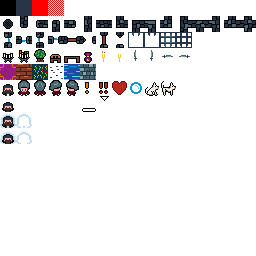
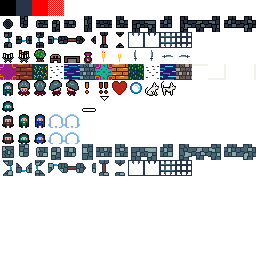
Tileset updates + pool ledge logic

diff --git a/src/tilesets.ts b/src/tilesets.ts
@@ -27,6 +27,7 @@ export type TileSet = {
     guardStateTiles: Array<TileInfo>;
     npcTiles: Array<TileInfo>;
     playerTiles: Array<TileInfo>;
+    ledgeTiles: Array<TileInfo>;
     unlitTile: TileInfo;
     flattenTexture: boolean;
 }
@@ -159,6 +160,12 @@ const sinCityTileSet:TileSet = {
         {textureIndex: r([4,0]), }, //Relaxed
         {textureIndex: r([5,5]), }, //Alerted
         {textureIndex: r([6,5]), }, //Chasing
+    ],
+    ledgeTiles: [
+        {textureIndex: r([12,4]), color: 0xFF736847, unlitColor: 0xFF483428},
+        {textureIndex: r([13,4]), color: 0xFF736847, unlitColor: 0xFF483428},
+        {textureIndex: r([14,4]), color: 0xFF736847, unlitColor: 0xFF483428},
+        {textureIndex: r([15,4]), color: 0xFF736847, unlitColor: 0xFF483428},
     ]
 }
 
@@ -172,50 +179,50 @@ const tileSet31Color:TileSet = {
     flattenTexture: true,
     unlitTile: {textureIndex: r([0, 0])}, //color:colorPreset.lightBlue
     terrainTiles: [ 
-        {textureIndex: r([5,  4]),  color:colorPreset.white, unlitColor:0xffa07070}, // TerrainType.GroundNormal,
-        {textureIndex: r([2,  4]),  color:colorPreset.white, unlitColor:0xffa07070}, // TerrainType.GroundGrass,
-        {textureIndex: r([4,  4]),  color:colorPreset.white, unlitColor:0xffa07070}, // TerrainType.GroundWater,
+        {textureIndex: r([11,  4]),  color:colorPreset.white, unlitColor:0xffa07070}, // TerrainType.GroundNormal,
+        {textureIndex: r([8,  4]),  color:colorPreset.white, unlitColor:0xffa07070}, // TerrainType.GroundGrass,
+        {textureIndex: r([10,  4]),  color:colorPreset.white, unlitColor:0xffa07070}, // TerrainType.GroundWater,
         {textureIndex: r([0,  4]),  color:colorPreset.white, unlitColor:0xffa07070}, // TerrainType.GroundMarble,
-        {textureIndex: r([1,  4]),  color:colorPreset.white, unlitColor:0xffa07070}, // TerrainType.GroundWood,
-        {textureIndex: r([1,  4]),  color:colorPreset.white, unlitColor:0xffa07070}, // TerrainType.GroundWoodCreaky,
-        {textureIndex: r([0,  1]),  color:colorPreset.white, unlitColor:0xffa07070}, // TerrainType.Wall0000,
-        {textureIndex: r([2,  1]),  color:colorPreset.white, unlitColor:0xffa07070}, // TerrainType.Wall0001,
-        {textureIndex: r([4,  1]),  color:colorPreset.white, unlitColor:0xffa07070}, // TerrainType.Wall0010,
-        {textureIndex: r([6,  1]),  color:colorPreset.white, unlitColor:0xffa07070}, // TerrainType.Wall0011,
-        {textureIndex: r([1,  1]),  color:colorPreset.white, unlitColor:0xffa07070}, // TerrainType.Wall0100,
-        {textureIndex: r([9,  1]),  color:colorPreset.white, unlitColor:0xffa07070}, // TerrainType.Wall0101,
-        {textureIndex: r([8,  1]),  color:colorPreset.white, unlitColor:0xffa07070}, // TerrainType.Wall0110,
-        {textureIndex: r([12, 1]),  color:colorPreset.white, unlitColor:0xffa07070}, // TerrainType.Wall0111,
-        {textureIndex: r([3,  1]),  color:colorPreset.white, unlitColor:0xffa07070}, // TerrainType.Wall1000,
-        {textureIndex: r([10, 1]),  color:colorPreset.white, unlitColor:0xffa07070}, // TerrainType.Wall1001,
-        {textureIndex: r([7,  1]),  color:colorPreset.white, unlitColor:0xffa07070}, // TerrainType.Wall1010,
-        {textureIndex: r([14, 1]),  color:colorPreset.white, unlitColor:0xffa07070}, // TerrainType.Wall1011,
-        {textureIndex: r([5,  1]),  color:colorPreset.white, unlitColor:0xffa07070}, // TerrainType.Wall1100,
-        {textureIndex: r([13, 1]),  color:colorPreset.white, unlitColor:0xffa07070}, // TerrainType.Wall1101,
-        {textureIndex: r([11, 1]),  color:colorPreset.white, unlitColor:0xffa07070}, // TerrainType.Wall1110,
-        {textureIndex: r([15, 1]),  color:colorPreset.white, unlitColor:0xffa07070}, // TerrainType.Wall1111,
-        {textureIndex: r([0,  2]),  color:colorPreset.white, unlitColor:0xffa07070}, // TerrainType.OneWayWindowE,
-        {textureIndex: r([2,  2]),  color:colorPreset.white, unlitColor:0xffa07070}, // TerrainType.OneWayWindowW,
-        {textureIndex: r([3,  2]),  color:colorPreset.white, unlitColor:0xffa07070}, // TerrainType.OneWayWindowN,
-        {textureIndex: r([1,  2]),  color:colorPreset.white, unlitColor:0xffa07070}, // TerrainType.OneWayWindowS,
-        {textureIndex: r([10, 2]),  color:colorPreset.white, unlitColor:0xffa07070}, // TerrainType.PortcullisNS,
-        {textureIndex: r([10, 2]),  color:colorPreset.white, unlitColor:0xffa07070}, // TerrainType.PortcullisEW,
-        {textureIndex: r([6,  2]),  color:colorPreset.white, unlitColor:0xffa07070}, // TerrainType.DoorNS,
-        {textureIndex: r([4,  2]),  color:colorPreset.white, unlitColor:0xffa07070}, // TerrainType.DoorEW,
-        {textureIndex: r([2,  4]),  color:colorPreset.white, unlitColor:0xffa07070}, // TerrainType.GardenDoorNS,
-        {textureIndex: r([2,  4]),  color:colorPreset.white, unlitColor:0xffa07070}, // TerrainType.GardenDoorEW,
+        {textureIndex: r([7,  4]),  color:colorPreset.white, unlitColor:0xffa07070}, // TerrainType.GroundWood,
+        {textureIndex: r([7,  4]),  color:colorPreset.white, unlitColor:0xffa07070}, // TerrainType.GroundWoodCreaky,
+        {textureIndex: r([0,  9]),  color:colorPreset.white, unlitColor:0xffa07070}, // TerrainType.Wall0000,
+        {textureIndex: r([2,  9]),  color:colorPreset.white, unlitColor:0xffa07070}, // TerrainType.Wall0001,
+        {textureIndex: r([4,  9]),  color:colorPreset.white, unlitColor:0xffa07070}, // TerrainType.Wall0010,
+        {textureIndex: r([6,  9]),  color:colorPreset.white, unlitColor:0xffa07070}, // TerrainType.Wall0011,
+        {textureIndex: r([1,  9]),  color:colorPreset.white, unlitColor:0xffa07070}, // TerrainType.Wall0100,
+        {textureIndex: r([9,  9]),  color:colorPreset.white, unlitColor:0xffa07070}, // TerrainType.Wall0101,
+        {textureIndex: r([8,  9]),  color:colorPreset.white, unlitColor:0xffa07070}, // TerrainType.Wall0110,
+        {textureIndex: r([12, 9]),  color:colorPreset.white, unlitColor:0xffa07070}, // TerrainType.Wall0111,
+        {textureIndex: r([3,  9]),  color:colorPreset.white, unlitColor:0xffa07070}, // TerrainType.Wall1000,
+        {textureIndex: r([10, 9]),  color:colorPreset.white, unlitColor:0xffa07070}, // TerrainType.Wall1001,
+        {textureIndex: r([7,  9]),  color:colorPreset.white, unlitColor:0xffa07070}, // TerrainType.Wall1010,
+        {textureIndex: r([14, 9]),  color:colorPreset.white, unlitColor:0xffa07070}, // TerrainType.Wall1011,
+        {textureIndex: r([5,  9]),  color:colorPreset.white, unlitColor:0xffa07070}, // TerrainType.Wall1100,
+        {textureIndex: r([13, 9]),  color:colorPreset.white, unlitColor:0xffa07070}, // TerrainType.Wall1101,
+        {textureIndex: r([11, 9]),  color:colorPreset.white, unlitColor:0xffa07070}, // TerrainType.Wall1110,
+        {textureIndex: r([15, 9]),  color:colorPreset.white, unlitColor:0xffa07070}, // TerrainType.Wall1111,
+        {textureIndex: r([0,  10]),  color:colorPreset.white, unlitColor:0xffa07070}, // TerrainType.OneWayWindowE,
+        {textureIndex: r([2,  10]),  color:colorPreset.white, unlitColor:0xffa07070}, // TerrainType.OneWayWindowW,
+        {textureIndex: r([3,  10]),  color:colorPreset.white, unlitColor:0xffa07070}, // TerrainType.OneWayWindowN,
+        {textureIndex: r([1,  10]),  color:colorPreset.white, unlitColor:0xffa07070}, // TerrainType.OneWayWindowS,
+        {textureIndex: r([10, 10]),  color:colorPreset.white, unlitColor:0xffa07070}, // TerrainType.PortcullisNS,
+        {textureIndex: r([10, 10]),  color:colorPreset.white, unlitColor:0xffa07070}, // TerrainType.PortcullisEW,
+        {textureIndex: r([7,  10]),  color:colorPreset.white, unlitColor:0xffa07070}, // TerrainType.DoorNS,
+        {textureIndex: r([5,  10]),  color:colorPreset.white, unlitColor:0xffa07070}, // TerrainType.DoorEW,
+        {textureIndex: r([2+6, 4]),  color:colorPreset.white, unlitColor:0xffa07070}, // TerrainType.GardenDoorNS,
+        {textureIndex: r([2+6, 4]),  color:colorPreset.white, unlitColor:0xffa07070}, // TerrainType.GardenDoorEW,
     ], 
     itemTiles: [
-        {textureIndex: r([3,  3]),                                 unlitColor:0xffa07070}, // ItemType.Chair,
-        {textureIndex: r([4,  3]),                                 unlitColor:0xffa07070}, // ItemType.Table,
-        {textureIndex: r([2,  3]),  color:colorPreset.white,       unlitColor:0xffa07070}, // ItemType.Bush,
-        {textureIndex: r([5,  3]),                                 unlitColor:0xffd0b0b0}, // ItemType.Coin,
-        {textureIndex: r([6,  2]),  color:colorPreset.white,       unlitColor:0xffa07070}, // ItemType.DoorNS,
-        {textureIndex: r([4,  2]),  color:colorPreset.white,       unlitColor:0xffa07070}, // ItemType.DoorEW,
-        {textureIndex: r([10,  3]), color:colorPreset.white,       unlitColor:0xffa07070}, // ItemType.PortcullisNS,
-        {textureIndex: r([10,  3]), color:colorPreset.white,       unlitColor:0xffa07070}, // ItemType.PortcullisEW,
-        {textureIndex: r([0,  3]),                                 unlitColor:0xffa07070}, // ItemType.TorchUnlit,
-        {textureIndex: r([1,  3]),                                 unlitColor:0xffa07070}, // ItemType.TorchLit,    
+        {textureIndex: r([3,  3]),                                 unlitColor:0xffd0b0b0}, // ItemType.Chair,
+        {textureIndex: r([4,  3]),                                 unlitColor:0xffd0b0b0}, // ItemType.Table,
+        {textureIndex: r([2,  3]),   color:colorPreset.white,      unlitColor:0xffd09090}, // ItemType.Bush,
+        {textureIndex: r([5,  3]),                                 unlitColor:0xffffffff}, // ItemType.Coin,
+        {textureIndex: r([6,  10]),  color:colorPreset.white,      unlitColor:0xffa07070}, // ItemType.DoorNS,
+        {textureIndex: r([4,  10]),  color:colorPreset.white,      unlitColor:0xffa07070}, // ItemType.DoorEW,
+        {textureIndex: r([10,  10]), color:colorPreset.white,      unlitColor:0xffa07070}, // ItemType.PortcullisNS,
+        {textureIndex: r([10,  10]), color:colorPreset.white,      unlitColor:0xffa07070}, // ItemType.PortcullisEW,
+        {textureIndex: r([0,  3]),                                 unlitColor:0xffffffff}, // ItemType.TorchUnlit,
+        {textureIndex: r([1,  3]),                                 unlitColor:0xffffffff}, // ItemType.TorchLit,    
         {textureIndex: r([6,  3]),                                 unlitColor:0xffa07070}, // ItemType.TorchCarry,    
     ],
     npcTiles: [
@@ -233,16 +240,22 @@ const tileSet31Color:TileSet = {
         {textureIndex: r([1, 5]) },//guardS:
     ],
     playerTiles: [
-        {textureIndex: r([0,5]), }, //playerNormal
-        {textureIndex: r([0,5]), color:colorPreset.darkRed}, //playerWounded
-        {textureIndex: r([0,6]), color:colorPreset.darkGray}, //playerHidden: 
-        {textureIndex: r([0,5]), color:colorPreset.lightRed}, //playerNoisy: 
-        {textureIndex: r([0,5]), color:colorPreset.lightGray}, //playerUnlit: 
+        {textureIndex: r([2,5+2]), }, //playerNormal
+        {textureIndex: r([2,5+2]), color:colorPreset.darkRed}, //playerWounded
+        {textureIndex: r([2,6+2]), color:colorPreset.darkGray}, //playerHidden: 
+        {textureIndex: r([2,5+2]), color:colorPreset.lightRed}, //playerNoisy: 
+        {textureIndex: r([2,5+2]), color:colorPreset.white}, //playerUnlit: 
     ],
     guardStateTiles: [
-        {textureIndex: r([4,0]), }, //Relaxed
+        {textureIndex: r([4,0]) }, //Relaxed
         {textureIndex: r([5,5]), }, //Alerted
         {textureIndex: r([6,5]), }, //Chasing
+    ],
+    ledgeTiles: [
+        {textureIndex: r([12,4]), color: 0xFF736847, unlitColor: 0xFF483428},
+        {textureIndex: r([13,4]), color: 0xFF736847, unlitColor: 0xFF483428},
+        {textureIndex: r([14,4]), color: 0xFF736847, unlitColor: 0xFF483428},
+        {textureIndex: r([15,4]), color: 0xFF736847, unlitColor: 0xFF483428},
     ]
 }
 
@@ -340,6 +353,12 @@ const canvasTilesetThreeQuarter:TileSet = {
         {textureIndex: r([0,4]), color:colorPreset.darkGray}, //Relaxed
         {textureIndex: r([0,4]), color:colorPreset.darkRed}, //Alerted
         {textureIndex: r([0,4]), color:0xd0101010}, //Chasing
+    ],
+    ledgeTiles: [
+        {textureIndex: r([12,4]), color: 0xFF736847, unlitColor: 0xFF483428},
+        {textureIndex: r([13,4]), color: 0xFF736847, unlitColor: 0xFF483428},
+        {textureIndex: r([14,4]), color: 0xFF736847, unlitColor: 0xFF483428},
+        {textureIndex: r([15,4]), color: 0xFF736847, unlitColor: 0xFF483428},
     ]
 }
 
@@ -425,6 +444,12 @@ var BasicTileset:TileSet = {
         {textureIndex:34, color:colorPreset.lightMagenta},//guardN
         {textureIndex:35, color:colorPreset.lightMagenta},//guardW
         {textureIndex:36, color:colorPreset.lightMagenta},//guardS
+    ],
+    ledgeTiles: [
+        {textureIndex: r([12,4]), color: 0xFF736847, unlitColor: 0xFF483428},
+        {textureIndex: r([13,4]), color: 0xFF736847, unlitColor: 0xFF483428},
+        {textureIndex: r([14,4]), color: 0xFF736847, unlitColor: 0xFF483428},
+        {textureIndex: r([15,4]), color: 0xFF736847, unlitColor: 0xFF483428},
     ],
 }
 

diff --git a/src/game.ts b/src/game.ts
@@ -519,16 +519,18 @@ function renderWorld(state: State, renderer: Renderer) {
             const terrainType = cell.type;
             const alwaysLit = terrainType >= TerrainType.Wall0000;
             const lit = alwaysLit || cell.lit;
-            if(terrainType==TerrainType.Wall0000) {
-                for(let adj of [[0,1],[1,0],[0,-1],[-1,0]]) {
+            renderer.addGlyph(x, y, x+1, y+1, renderer.tileSet.terrainTiles[terrainType], lit);
+            if(terrainType===TerrainType.GroundWater) {
+                const ledge = renderer.tileSet.ledgeTiles;
+                let ctr = 0;
+                for(let adj of [[0,1],[0,-1],[-1,0],[1,0]]) {
                     const cell = state.gameMap.cells.at(x+adj[0],y+adj[1]);
-                    if(cell.type<TerrainType.Wall0000) {
-                        renderer.addGlyph(x, y, x+1, y+1, renderer.tileSet.terrainTiles[cell.type], cell.lit);
-                        break;
+                    if(cell.type!==TerrainType.GroundWater) {
+                        renderer.addGlyph(x, y, x+1, y+1, ledge[ctr], lit);
                     }
+                    ctr++;
                 }
             }
-            renderer.addGlyph(x, y, x+1, y+1, renderer.tileSet.terrainTiles[terrainType], lit);
 
             const ind = state.gameMap.cells.index(x, y);
             if(!(ind in mappedItems)) continue;
